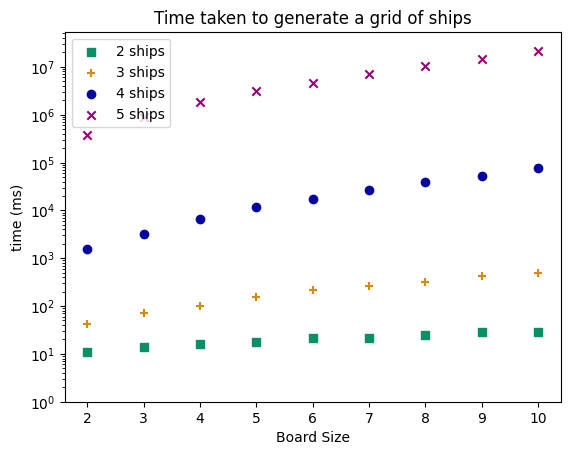
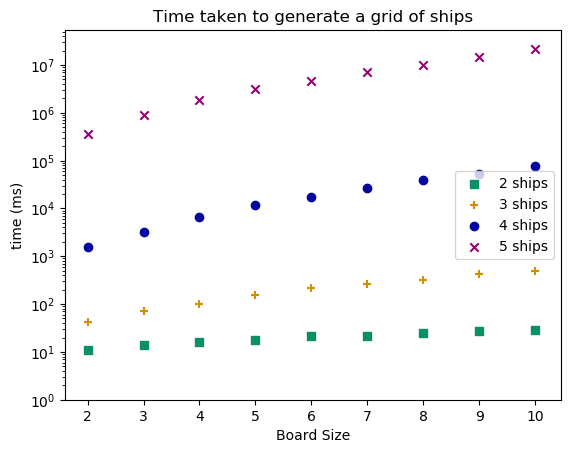
running output tests
printing all the possible bytes ect

diff --git a/src/Runner.java b/src/Runner.java
@@ -27,15 +27,15 @@ public class Runner {
         int allBoards=0;
         int goodBoards=0;
         
-        // File fValid = new File("../out/bytes_validShips_"+Board.getLen()+"_"+fleet.size()+".txt");
-        // try (FileWriter frValid = new FileWriter(fValid)){
+        File fValid = new File("../out/bytes_validShips_"+Board.getLen()+"_"+fleet.size()+".txt");
+        try (FileWriter frValid = new FileWriter(fValid)){
 
 
             while(encodedBoard!=null){
                 try {
                     Board test = Board.decodeBoard(encodedBoard, fleet);
                     goodBoards++;
-                    // frValid.write(Arrays.toString(encodedBoard)+",");
+                    frValid.write(Arrays.toString(encodedBoard)+"\n");
                 } catch (InvalidPlacementException e) {
                     // System.out.println("Uhoh: Bad ship placment");
                 } catch (InvalidShipTypeException e) {
@@ -50,10 +50,10 @@ public class Runner {
 
                 encodedBoard = nextByte(encodedBoard);
             }
-            long endTime = System.currentTimeMillis();
-        // } catch (IOException e) {
-		// 	e.printStackTrace();
-        // }
+        } catch (IOException e) {
+			e.printStackTrace();
+        }
+        long endTime = System.currentTimeMillis();
         
         String timeCSV = (endTime - startTime)+",";
         String countCSV = goodBoards+",";
@@ -61,15 +61,15 @@ public class Runner {
 
 
         // append status to a file
-        File fTime = new File("../timeTesting/results_timeData_java.txt");
-        File fCount = new File("../timeTesting/results_shipCount.txt");
-		try (FileWriter frTime = new FileWriter(fTime, true);
-             FileWriter frCount = new FileWriter(fCount, true)){			
-			frTime.write(timeCSV);
-            frCount.write(countCSV);
-		} catch (IOException e) {
-			e.printStackTrace();
-		}
+        // File fTime = new File("../timeTesting/results_timeData_java.txt");
+        // File fCount = new File("../timeTesting/results_shipCount.txt");
+		// try (FileWriter frTime = new FileWriter(fTime, true);
+        //      FileWriter frCount = new FileWriter(fCount, true)){			
+		// 	frTime.write(timeCSV);
+        //     frCount.write(countCSV);
+		// } catch (IOException e) {
+		// 	e.printStackTrace();
+		// }
         
     }
 

diff --git a/timeTesting/timePlots.py b/timeTesting/timePlots.py
@@ -34,7 +34,7 @@ def plot(data, gameInfo, filename):
             plt.scatter(boardLengths[i], data[i][j],c=col[j], marker=mark[j])
     
     legend = [f"{x} ships" for x in shipCounts]
-    plt.legend(legend)
+    plt.legend(legend,loc='center right')
     
     plt.title('Time taken to generate a grid of ships')
     
